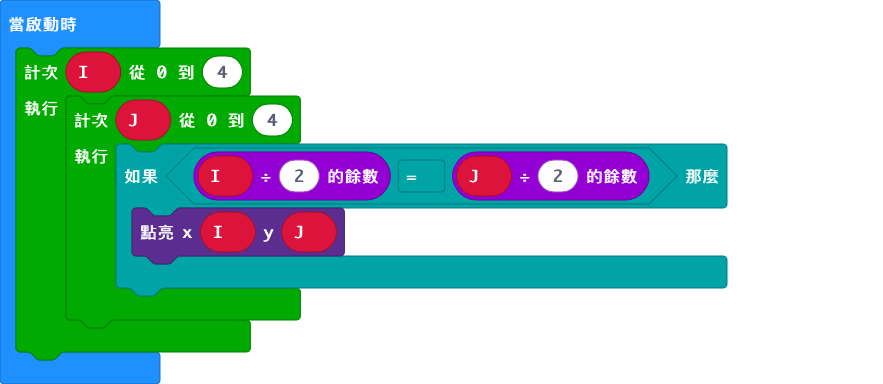
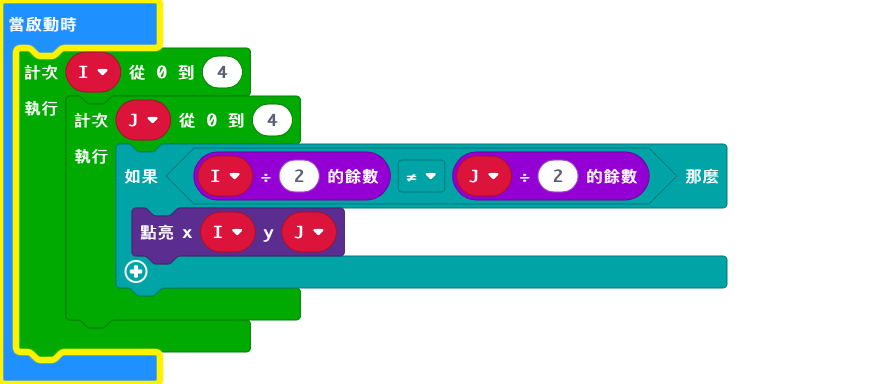
Update main.blocks, main.ts

diff --git a/main.ts b/main.ts
@@ -1,6 +1,6 @@
 for (let I = 0; I <= 4; I++) {
     for (let J = 0; J <= 4; J++) {
-        if (I % 2 == J % 2) {
+        if (I % 2 != J % 2) {
             led.plot(I, J)
         }
     }
